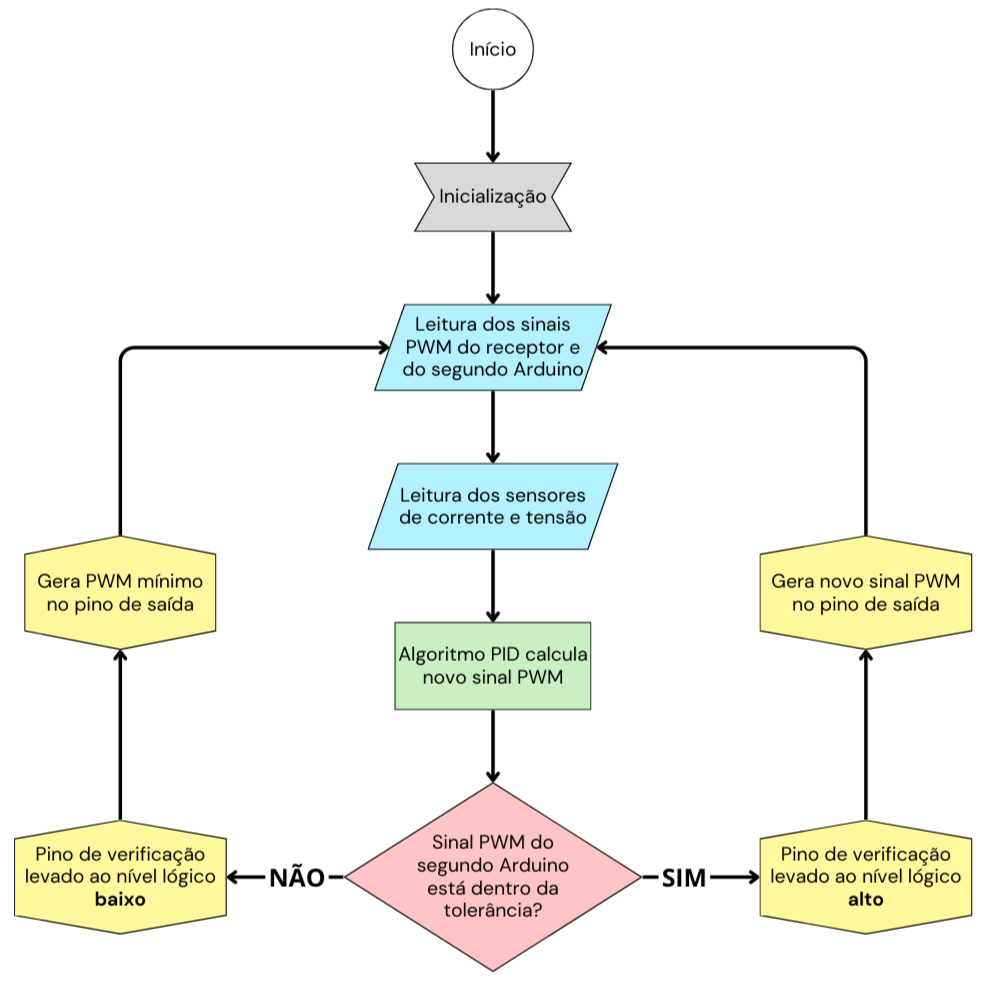
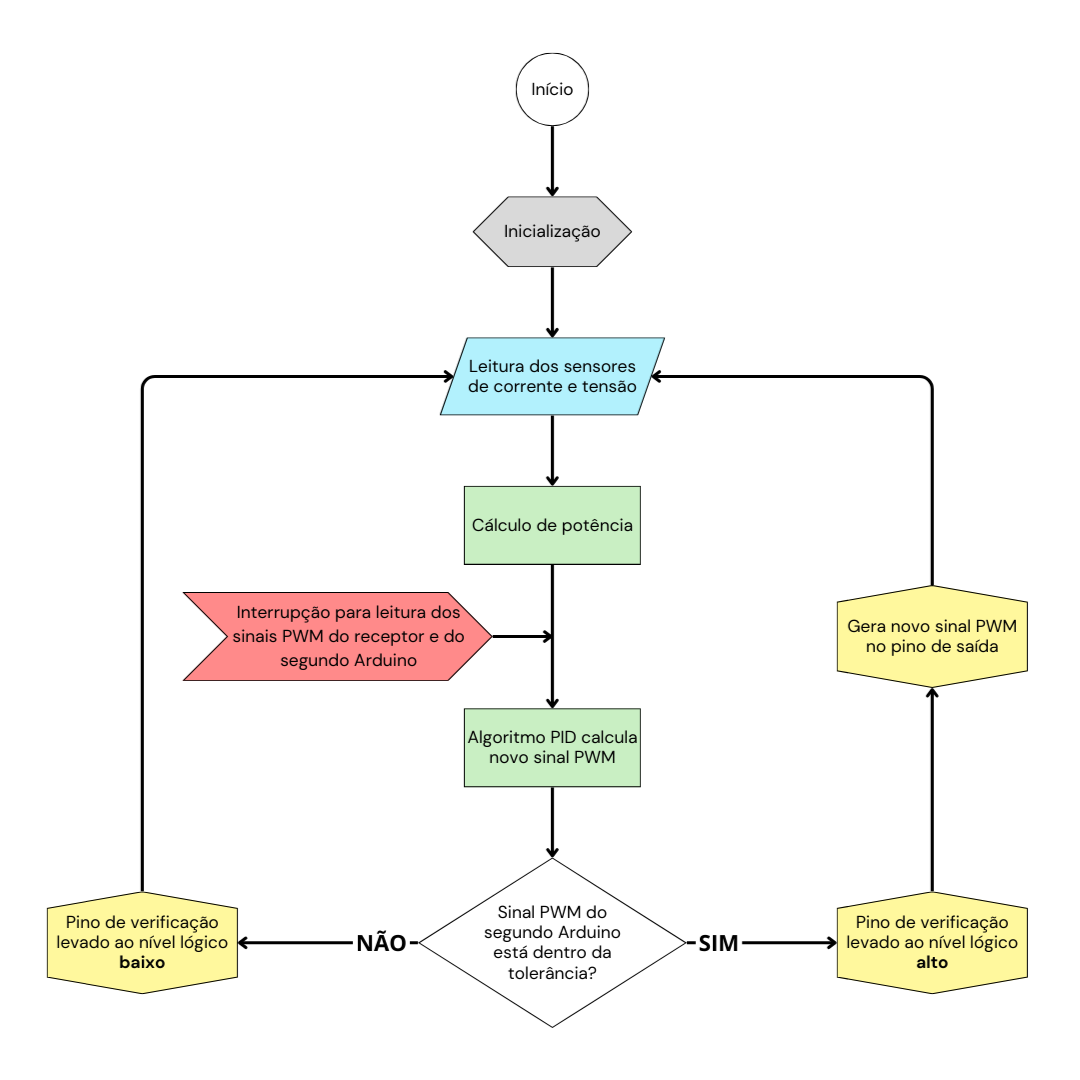
update docs

Changed region(s): [[0.0, 0.0305, 1.0, 1.0]]

diff --git a/src/pwm.cpp b/src/pwm.cpp
@@ -14,7 +14,7 @@ extern volatile uint32_t tWidthD3;
 // from low to high OR high to low
 void ISR_D2(){
   // save ISR time
-  uint32_t time = micros();
+  uint32_t time = millis();
 
   // set flag
   flagD2 = true;
@@ -33,7 +33,7 @@ void ISR_D2(){
 // from low to high OR high to low
 void ISR_D3(){
   // save ISR time
-  uint32_t time = micros();
+  uint32_t time = millis();
 
   // set flag
   flagD3 = true;

diff --git a/inc/pwm.hpp b/inc/pwm.hpp
@@ -1,5 +1,12 @@
 #pragma once
 #include "../params.hpp"
 
+// Interrupt handler for pin D2 (Receiver)
+// This interrupt runs whenever the state of D2 changes
+// from low to high OR high to low
 void ISR_D2();
+
+// Interrupt handler for pin D3 (second Arduino)
+// This interrupt runs whenever the state of D3 changes
+// from low to high OR high to low
 void ISR_D3();

diff --git a/README.md b/README.md
@@ -11,17 +11,28 @@ para maximizar o empuxo e a pontuação na competição, desenvolvemos este sist
 ## Como funciona
 
 O sistema é composto por dois Arduinos Nano executando o mesmo código.
-Os dois Arduinos vão fazer a leitura dos sensores de corrente e de tensão,
-do sinal PWM vindo do ESC.
+Cada Arduinos fará a leitura dos sensores de corrente e de tensão, e do sinal PWM vindo do receptor.
 
 Após realizar as leituras, cada Arduino vai calcular um novo PWM para o motor levando em conta
 a potência obtida dos sensores, de modo que a potência do motor não ultrapasse um determinado valor.
 
-Cada Arduino também faz a leitura do PWM gerado pelo outro e verifica se o valor está dentro
-de uma tolerância. Caso um dos Arduinos perceba que o PWM do outro Arduino está fora da tolerância,
+Cada Arduino também faz a leitura do PWM gerado pelo outro e verifica se está dentro de uma tolerância.
+Caso um dos Arduinos perceba que o PWM gerado pelo outro Arduino está fora da tolerância,
 seja por uma discrepância nos valores ou por uma falha no segundo Arduino,
 um pino de verificação (Check) será levado ao nível lógico baixo, fazendo com que o PWM
 dos Arduinos seja barrado e o PWM do receptor seja enviado ao ESC.
+
+### Leitura dos sinais PWM
+
+Para ler os sinais PWM do receptor e do segundo Arduino, foram utilizados os dois pinos de interrupção
+do Arduino Nano (pinos digitais 2 e 3). As interrupções foram configuradas no modo CHANGE, ou seja, 
+cada vez que o pino associado mudar de estado (seja de alto para baixo ou o contrário) 
+a interrupção será executada.
+
+Existem duas ISRs, cada uma associada a um pino. Seus códigos são idênticos, mudando apenas algumas variáveis.
+
+Primeiro, a ISR armazena o tempo atual usando `millis()` e ativa a flag associada. Então, é feita a leitura
+do pino que ativou a interrupção para identificar se 
 
 ### Fluxograma
 
